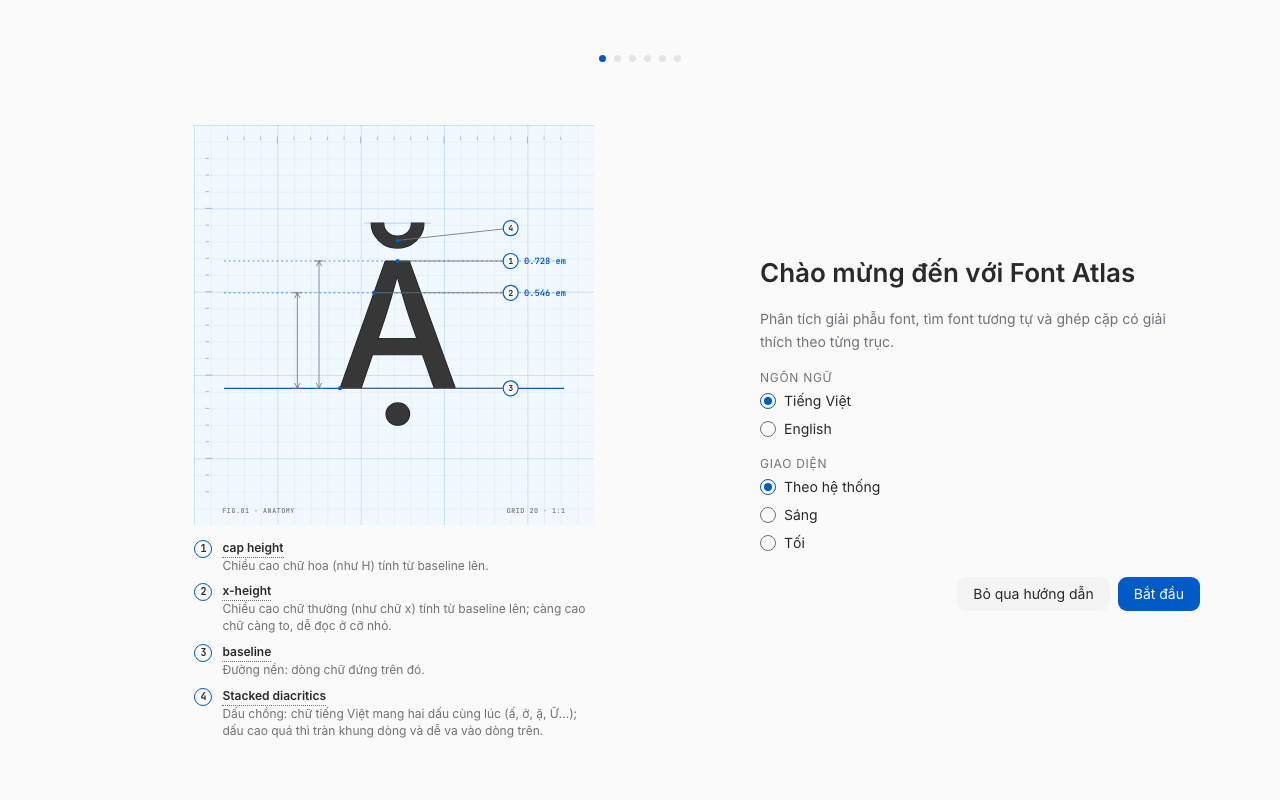
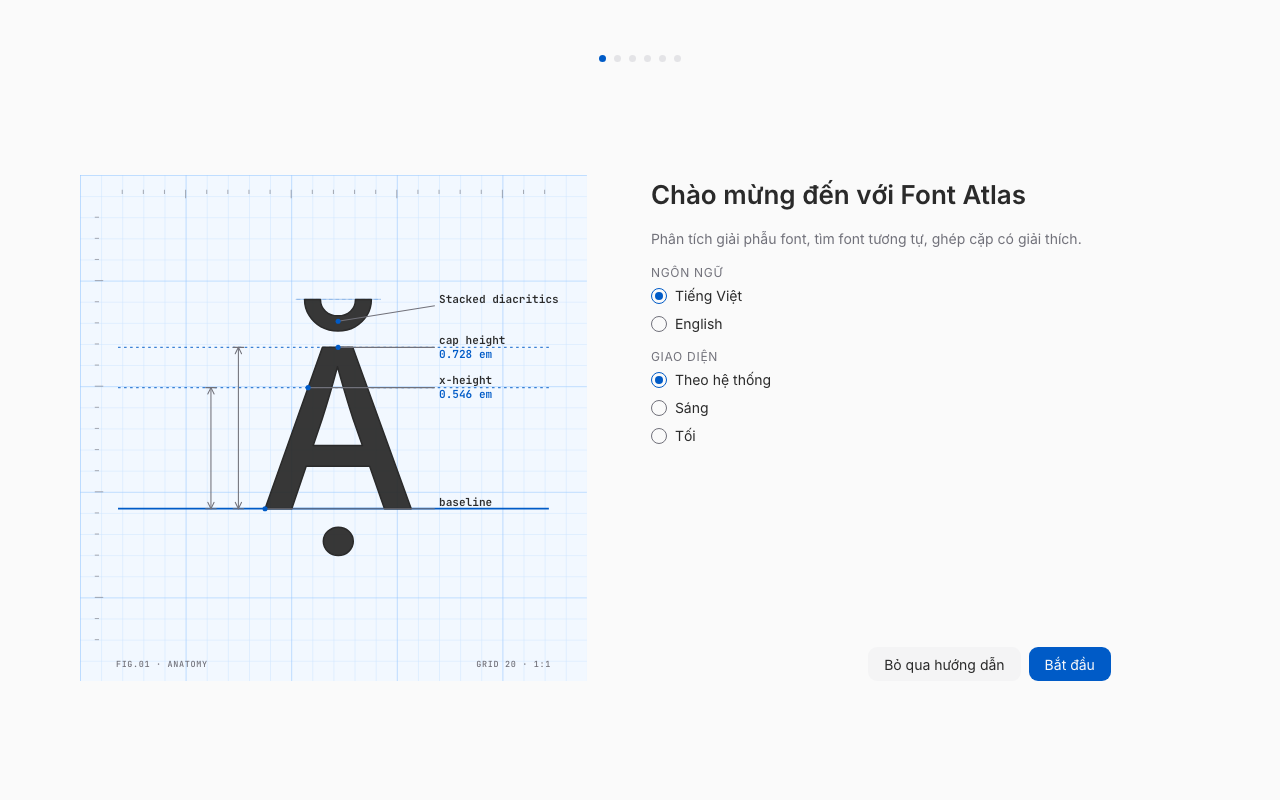
feat(onboarding): bỏ khối chú giải dài (nhãn ngắn + TermTip trên hình), cân lại bố cục lưới 48/52, hình vuông canh giữa, nút cùng đường chân; ảnh chụp lại

diff --git a/UX/components/onboarding/Illustrations.tsx b/UX/components/onboarding/Illustrations.tsx
@@ -2,19 +2,12 @@
 // Bước quét (o4) có hình riêng trong ScanBlocks; ở đây o4 chỉ chừa khung (slot) để ScanBlocks gắn vào qua portal.
 import type { ReactNode } from 'react';
 import { t, type I18nKey } from '../../i18n';
-import { TERM_NAMES, TermTip, termGloss, termKey } from '../ui/terms';
 import type { Step } from '../../store/onboarding';
 import { CAP_HEIGHT, GLYPHS, UPM, X_HEIGHT } from './glyphOutlines';
 import { Callout, Dimension, GlyphArt, Guide, Readout, Sheet, VB_SQ, VB_W, circlePath, delay, glyphWidth } from './blueprint';
 
 export const ILLUSTRATED_STEPS = ['o1', 'o2', 'o3', 'o5', 'o6', 'o7', 'end'] as const;
 type S = typeof ILLUSTRATED_STEPS[number];
-
-/** Thuật ngữ mà số callout của từng bước trỏ tới (theo thứ tự số 1, 2, 3…). Giải thích nằm ở TermTip và ở legend. */
-export const LEGEND: Partial<Record<S, readonly string[]>> = {
-  o1: ['cap_height', 'x_height', 'baseline', 'vi_marks'],
-  o7: ['activate'],
-};
 
 const em = (units: number, size: number) => (units * size) / UPM;
 
@@ -32,12 +25,12 @@ function Welcome(): React.JSX.Element {
       <Dimension x={150} y1={cap} y2={base} at={1000} />
       <Dimension x={124} y1={xh} y2={base} at={1100} />
       <GlyphArt ch="Ặ" x={x} y={base} size={size} at={700} fillAt={1700} />
-      <Callout n={1} px={apex} py={cap} cx={380} cy={cap} at={1400} />
-      <Callout n={2} px={x + em(449, size)} py={xh} cx={380} cy={xh} at={1520} />
-      <Callout n={3} px={x + em(51, size)} py={base} cx={380} cy={base} at={1640} />
-      <Callout n={4} px={apex} py={(top + cap) / 2 - 2} cx={380} cy={top + 6} at={1760} />
-      <Readout x={396} y={cap + 3.5} to={CAP_HEIGHT / UPM} at={1000} />
-      <Readout x={396} y={xh + 3.5} to={X_HEIGHT / UPM} at={1100} />
+      <Callout term="cap_height" px={apex} py={cap} cx={336} cy={cap} at={1400} />
+      <Callout term="x_height" px={x + em(449, size)} py={xh} cx={336} cy={xh} at={1520} />
+      <Callout term="baseline" px={x + em(51, size)} py={base} cx={336} cy={base} at={1640} />
+      <Callout term="vi_marks" px={apex} py={(top + cap) / 2 - 2} cx={336} cy={top + 6} at={1760} />
+      <Readout x={340} y={cap + 10} to={CAP_HEIGHT / UPM} at={1000} />
+      <Readout x={340} y={xh + 10} to={X_HEIGHT / UPM} at={1100} />
       </Sheet>
     </>
   );
@@ -133,7 +126,7 @@ function Activate(): React.JSX.Element {
       <Sheet fig="FIG.07 · PROTOTYPE" h={VB_SQ}>
       <rect x="48" y="130" width="112" height="112" rx="6" className="bp-frame-box" style={delay(150)} />
       <GlyphArt ch="ă" x={104 - w / 2} y={206} size={size} at={400} fillAt={1100} className="src" />
-      <Callout n={1} px={150} py={77} cx={196} cy={46} at={1200} />
+      <Callout term="activate" px={150} py={77} cx={176} cy={46} at={1200} />
       <g className="bp-switch" style={delay(1000)}><rect x="86" y="62" width="64" height="30" rx="15" className="bp-pill" /><circle cx="101" cy="77" r="11" className="bp-knob" /></g>
       <path d="M168 186H236" className="bp-flow dash" pathLength={1} style={delay(1400)} />
       <g className="bp-window" style={delay(1500)}>
@@ -166,34 +159,15 @@ function Done(): React.JSX.Element {
 
 const ART: Record<S, () => React.JSX.Element> = { o1: Welcome, o2: Legacy, o3: Tray, o5: Seal, o6: Embedding, o7: Activate, end: Done };
 
-function Legend({ terms }: { terms: readonly string[] }): React.JSX.Element {
-  return (
-    <ol className="fa-legend" aria-label={t('onb.legend')}>
-      {terms.map((term, i) => {
-        const key = termKey(term);
-        return (
-          <li key={key}>
-            <b aria-hidden>{i + 1}</b>
-            <TermTip term={key}><span className="name" tabIndex={0}>{TERM_NAMES[key] ?? key}</span></TermTip>
-            <span className="gloss">{termGloss(key)}</span>
-          </li>
-        );
-      })}
-    </ol>
-  );
-}
-
 /** Khung hình (stage) của một bước. `slotRef` chỉ dùng ở o4: nơi ScanBlocks gắn hình quét vào. */
 export function Illustration({ step, slotRef }: { step: Step | S; slotRef?: (el: HTMLDivElement | null) => void }): React.JSX.Element | null {
   if (step === 'o4') return <figure className="fa-stage" data-step="o4"><div className="fa-stage-slot" ref={slotRef} /></figure>;
   const Art = (ART as Record<string, (() => React.JSX.Element) | undefined>)[step];
   if (!Art) return null;
-  const terms = LEGEND[step as S];
   const node: ReactNode = <Art />;
   return (
     <figure className="fa-stage" data-step={step}>
       <svg className="fa-bp" role="img" aria-label={t(`onb.art.${step}` as I18nKey)} viewBox={`0 0 ${VB_W} ${VB_SQ}`} preserveAspectRatio="xMidYMid meet">{node}</svg>
-      {terms && <Legend terms={terms} />}
     </figure>
   );
 }

diff --git a/UX/components/onboarding/onboarding.css b/UX/components/onboarding/onboarding.css
@@ -1,5 +1,5 @@
 .fa-onb { position: relative; height: 100%; display: flex; flex-direction: column; background: var(--sheet); color: var(--fg); overflow-y: auto; }
-.fa-onb-top { display: grid; grid-template-columns: 1fr auto 1fr; grid-auto-rows: 28px; align-items: center; padding: 44px 24px 0; }
+.fa-onb-top { display: grid; grid-template-columns: 1fr auto 1fr; grid-auto-rows: 28px; align-items: center; width: min(1120px, calc(100% - 48px)); margin: 0 auto; padding: 44px 0 0; }
 .fa-onb-back { justify-self: start; color: var(--muted); font-size: 13px; }
 .fa-onb-back:hover { color: var(--fg); }
 .fa-onb-dots { display: flex; gap: 8px; align-items: center; height: 14px; }
@@ -7,12 +7,12 @@
 .fa-onb-dots i[data-on="true"] { background: var(--muted); }
 .fa-onb-dots i[data-now="true"] { background: var(--accent-ink); }
 @media (prefers-reduced-motion: reduce) { .fa-onb-dots i { transition: none; } }
-.fa-onb-body { flex: 1; width: min(1120px, calc(100% - 48px)); margin: 0 auto; padding: clamp(16px, 4vh, 44px) 0 40px; display: grid; grid-template-columns: minmax(0, 1fr) minmax(340px, 440px); gap: clamp(24px, 4vw, 56px); align-items: center; }
-.fa-stage { margin: 0; display: flex; flex-direction: column; gap: 14px; min-width: 0; width: min(100%, 400px); justify-self: center; }
+.fa-onb-body { flex: 1; width: min(1120px, calc(100% - 48px)); margin: 0 auto; padding: clamp(12px, 3vh, 32px) 0 clamp(24px, 5vh, 56px); display: grid; grid-template-columns: minmax(0, 48fr) minmax(0, 52fr); column-gap: clamp(32px, 5vw, 72px); align-content: center; align-items: stretch; }
+.fa-stage { margin: 0; min-width: 0; width: min(100%, 520px, calc(100vh - 230px)); align-self: center; justify-self: start; }
 .fa-stage-slot { min-width: 0; }
-.fa-onb-pane { display: flex; flex-direction: column; gap: 16px; min-width: 0; }
-@media (max-width: 880px) { .fa-onb-body { grid-template-columns: minmax(0, 1fr); align-items: start; } .fa-stage { width: min(100%, 360px); } }
-@media (max-height: 640px) { .fa-stage .fa-legend { display: none; } }
+.fa-onb-pane { display: flex; flex-direction: column; gap: 14px; min-width: 0; max-width: 460px; justify-self: start; width: 100%; justify-content: center; }
+.fa-onb-pane > .fa-onb-actions { margin-top: auto; }
+@media (max-width: 880px) { .fa-onb-body { grid-template-columns: minmax(0, 1fr); row-gap: 24px; align-content: start; } .fa-stage { width: min(100%, 360px, calc(100vh - 360px)); min-width: 220px; } .fa-onb-pane { max-width: none; } }
 .fa-onb-body h1 { margin: 0; font-size: 26px; font-weight: 600; }
 .fa-onb-body p { margin: 0; font-size: 14px; line-height: 1.6; color: var(--muted); }
 .fa-onb-body p[role="alert"] { color: var(--warn); }

diff --git a/UX/components/onboarding/__tests__/Illustrations.test.tsx b/UX/components/onboarding/__tests__/Illustrations.test.tsx
@@ -1,6 +1,6 @@
 import { render, screen } from '@testing-library/react';
 import { describe, expect, it } from 'vitest';
-import { ILLUSTRATED_STEPS, LEGEND, Illustration } from '../Illustrations';
+import { ILLUSTRATED_STEPS, Illustration } from '../Illustrations';
 import { CAP_HEIGHT, GLYPHS, UPM, X_HEIGHT } from '../glyphOutlines';
 
 const EMOJI = /[\u{1F300}-\u{1FAFF}\u{2600}-\u{27BF}\u{FE0F}]/u;
@@ -52,20 +52,21 @@ describe('onboarding illustrations (blueprint lab)', () => {
     expect(container.querySelector('[data-glyph="Ặ"]')).toBeTruthy();
   });
 
-  it('every numbered callout has a legend entry with a TermTip name, in order', () => {
+  it('o1 has short labels beside the guides (term names with a TermTip), and NO long legend block', () => {
     const { container } = render(<Illustration step="o1" />);
-    const nums = [...container.querySelectorAll('[data-callout]')].map(e => Number(e.getAttribute('data-callout')));
-    expect(nums).toEqual([1, 2, 3, 4]);
-    const names = [...container.querySelectorAll('.fa-legend .name')].map(e => e.textContent);
-    expect(names.every(Boolean)).toBe(true);
-    expect(names).toHaveLength(LEGEND.o1!.length);
-    for (const n of container.querySelectorAll('.fa-legend .name')) expect(n.getAttribute('tabindex')).toBe('0');
+    const terms = [...container.querySelectorAll('[data-callout]')].map(e => e.getAttribute('data-callout'));
+    expect(terms).toEqual(['cap_height', 'x_height', 'baseline', 'vi_marks']);
+    const labels = [...container.querySelectorAll('.bp-label')].map(e => e.textContent);
+    expect(labels.every(l => !!l && l.length <= 24)).toBe(true);
+    expect(container.querySelector('.fa-legend')).toBeNull();
+    expect(container.querySelector('.gloss')).toBeNull();
+    for (const l of container.querySelectorAll('.bp-label')) expect(l.getAttribute('tabindex')).toBe('0');
   });
 
-  it('activation has its callout 1 on the switch', () => {
+  it('no step shows a legend; activation has its label on the switch', () => {
+    for (const s of ILLUSTRATED_STEPS) expect(render(<Illustration step={s} />).container.querySelector('.fa-legend')).toBeNull();
     const { container } = render(<Illustration step="o7" />);
-    expect([...container.querySelectorAll('[data-callout]')].map(e => e.getAttribute('data-callout'))).toEqual(['1']);
-    expect(container.querySelectorAll('.fa-legend li')).toHaveLength(LEGEND.o7!.length);
+    expect([...container.querySelectorAll('[data-callout]')].map(e => e.getAttribute('data-callout'))).toEqual(['activate']);
   });
 
   it('each step has a different picture', () => {

diff --git a/UX/components/onboarding/blueprint.css b/UX/components/onboarding/blueprint.css
@@ -39,8 +39,8 @@ g.old .bp-outline { stroke: var(--bp-dim); stroke-dasharray: none; stroke-width:
 .bp-callout { animation: bp-pop .5s var(--bp-ease) var(--d, 0ms) both; transform-box: fill-box; transform-origin: center; }
 .bp-lead { stroke: var(--bp-dim); stroke-width: 1; }
 .bp-dot { fill: var(--bp-acc); }
-.bp-bubble { fill: var(--sheet); stroke: var(--bp-acc); stroke-width: 1.4; }
-.bp-num { font: 700 10px/1 "JetBrains Mono", ui-monospace, monospace; fill: var(--bp-ink); }
+.bp-label { font: 600 10.5px/1 "JetBrains Mono", ui-monospace, monospace; fill: var(--fg); cursor: help; outline: none; }
+.bp-label:hover, .bp-label:focus-visible { fill: var(--accent-ink); text-decoration: underline dotted; }
 
 .bp-frame rect { fill: none; stroke: var(--bp-ink); stroke-width: 1.4; }
 .bp-frame.old rect { stroke: var(--bp-dim); stroke-dasharray: 5 4; }
@@ -93,15 +93,6 @@ g.fly { animation: bp-land .8s var(--bp-ease) var(--d, 0ms) both; }
 @keyframes bp-knob { to { transform: translateX(34px); } }
 @keyframes bp-land { from { transform: translateX(-190px); opacity: 0; } 30% { opacity: 1; } }
 
-/* Legend (HTML) đi kèm callout đánh số */
-.fa-legend { margin: 0; padding: 0; list-style: none; display: grid; grid-template-columns: repeat(auto-fit, minmax(210px, 1fr)); gap: 8px 16px; }
-.fa-legend li { display: grid; grid-template-columns: 20px auto; grid-template-areas: "n name" ". gloss"; column-gap: 8px; align-items: baseline; font-size: 12px; }
-.fa-legend b { grid-area: n; width: 18px; height: 18px; border-radius: 50%; border: 1.4px solid var(--bp-acc); display: grid; place-items: center; font: 700 10px/1 "JetBrains Mono", ui-monospace, monospace; color: var(--fg); }
-.fa-legend .name { grid-area: name; font-weight: 600; color: var(--fg); cursor: help; border-bottom: 1px dotted var(--muted); justify-self: start; }
-.fa-legend .name:focus-visible { outline: 2px solid var(--accent); outline-offset: 2px; border-radius: 2px; }
-.fa-legend .gloss { grid-area: gloss; color: var(--muted); line-height: 1.4; display: -webkit-box; -webkit-line-clamp: 2; -webkit-box-orient: vertical; overflow: hidden; }
-
-/* Outro (mở đầu là Splash) */
 .fa-intro { position: absolute; inset: 0; z-index: 5; display: flex; flex-direction: column; align-items: center; justify-content: center; gap: 18px; padding: 24px; background: var(--sheet); }
 .fa-intro .fa-bp { width: min(760px, 92%); }
 .fa-outro .bp-outline, .fa-outro .bp-solid, .fa-outro .bp-guide { animation: none; }

diff --git a/UX/components/onboarding/blueprint.tsx b/UX/components/onboarding/blueprint.tsx
@@ -3,6 +3,7 @@
 import { useEffect, useRef, useState } from 'react';
 import type { CSSProperties, ReactNode } from 'react';
 import { GLYPHS, UPM } from './glyphOutlines';
+import { TERM_NAMES, TermTip, termKey } from '../ui/terms';
 import './blueprint.css';
 
 export const VB_W = 480;
@@ -71,14 +72,14 @@ export function Guide({ y, x1 = 36, x2 = 444, name, at = 0, tone = 'dash' }: { y
   return <path data-guide={name} data-y={y} d={`M${x1} ${y}H${x2}`} pathLength={1} className={`bp-guide ${tone}`} style={delay(at)} />;
 }
 
-/** Số trong vòng tròn nối bằng đường dẫn tới điểm cần chú thích; legend HTML bên dưới giải thích số đó. */
-export function Callout({ n, px, py, cx, cy, at = 0 }: { n: number; px: number; py: number; cx: number; cy: number; at?: number }): React.JSX.Element {
+/** Nhãn ngắn ngay cạnh vạch: chấm ở điểm cần chỉ, đường dẫn tới nhãn tên thuật ngữ. Rê chuột vào nhãn → TermTip (không có khối giải thích dài trên hình). */
+export function Callout({ term, px, py, cx, cy, at = 0 }: { term: string; px: number; py: number; cx: number; cy: number; at?: number }): React.JSX.Element {
+  const key = termKey(term);
   return (
-    <g className="bp-callout" data-callout={n} style={delay(at)}>
-      <line x1={px} y1={py} x2={cx} y2={cy} className="bp-lead" />
+    <g className="bp-callout" data-callout={key} style={delay(at)}>
+      <path d={`M${px} ${py}L${cx} ${cy}`} className="bp-lead" />
       <circle cx={px} cy={py} r="2.4" className="bp-dot" />
-      <circle cx={cx} cy={cy} r="9" className="bp-bubble" />
-      <text x={cx} y={cy + 3.6} textAnchor="middle" className="bp-num">{n}</text>
+      <TermTip term={key}><text x={cx + 4} y={cy - 3} className="bp-label" tabIndex={0}>{TERM_NAMES[key] ?? key}</text></TermTip>
     </g>
   );
 }

diff --git a/UX/src-tauri/tests/qa/main_flows.js b/UX/src-tauri/tests/qa/main_flows.js
@@ -108,7 +108,7 @@
         await sleep(300); await snap('onb-tips');
         const cards = dlg ? dlg.querySelectorAll('[data-testid=tip-card]').length : 0;
         const dots = document.querySelectorAll('.fa-onb-dots i').length;
-        await log('onb-tips-overlay', !!dlg && cards >= 8 && vb === '0 0 480 480' && bw === '0px' && dots >= 6 && !document.querySelector('.fa-onb-keys, .fa-onb-stepno'), { cards, vb, bw, dots });
+        await log('onb-tips-overlay', !!dlg && cards >= 8 && vb === '0 0 480 480' && bw === '0px' && dots >= 6 && !document.querySelector('.fa-onb-keys, .fa-onb-stepno, .fa-legend'), { cards, vb, bw, dots, legend: !!document.querySelector('.fa-legend') });
         continue;
       }
       const order = /Kích hoạt/.test(h1) ? ['Để sau', 'Tiếp tục'] : ['Đã hiểu', 'Không dùng', 'Bỏ qua', 'Tiếp tục', 'Bắt đầu', 'Vào thư viện'];

diff --git a/UX/components/onboarding/Onboarding.tsx b/UX/components/onboarding/Onboarding.tsx
@@ -123,7 +123,7 @@ function O1({ api, next, finish }: Ctx) {
   return (
     <>
       <h1>Chào mừng đến với Font Atlas</h1>
-      <p>Phân tích giải phẫu font, tìm font tương tự và ghép cặp có giải thích theo từng trục.</p>
+      <p>Phân tích giải phẫu font, tìm font tương tự, ghép cặp có giải thích.</p>
       <fieldset className="fa-onb-field"><legend>Ngôn ngữ</legend>
         {([['vi', 'Tiếng Việt'], ['en', 'English']] as const).map(([v, label]) => (
           <label key={v}><input type="radio" name="lang" checked={lang === v} onChange={() => { chooseLocale(v); void api.setSettings({ uiLang: v }); }} />{label}</label>))}

diff --git a/docs/design/onboarding-lab/README.md b/docs/design/onboarding-lab/README.md
@@ -16,3 +16,4 @@ Ngôn ngữ hình: bản vẽ kỹ thuật (blueprint) — lưới đo 20 px, đ
 - Onboarding: chỉ báo bước là chấm tròn đơn giản; bỏ chữ "Bước x/y" và dòng gợi ý phím (phím ← → Enter Esc vẫn chạy; mô tả cho trình đọc màn hình giữ nguyên, ẩn). Ô minh hoạ vuông (viewBox 480×480, tối đa 400 px), KHÔNG viền khung và bỏ góc khung; lưới, thước, vạch đo, callout giữ nguyên.
 - Trước màn kết: bảng "Phím tắt & tính năng chính" (`UX/components/help`) — lưới 9 thẻ lấy từ danh sách phím thật (`shortcuts.ts`, mỗi mục ghi nơi đăng ký phím); Esc / bấm nền / "Bắt đầu" đều vào thư viện. Mở lại bất kỳ lúc nào bằng phím `?` (trừ khi đang gõ chữ, có hộp thoại/menu hoặc đang trong hướng dẫn).
 - Chụp: `capture.sh` có thêm `-tips` (hash dev `ob=end&tips=1`).
+- Cập nhật sau góp ý chủ app: BỎ khối chú giải dài dưới hình ở mọi bước. Trên hình chỉ còn nhãn ngắn cạnh vạch (tên thuật ngữ + số đo, vd "cap height 0.728 em"); rê chuột/focus vào nhãn mới hiện TermTip. Bố cục cân lại: lưới 48/52, hình vuông ≤ 520 px (≈45% bề ngang) canh giữa theo chiều dọc, lề trái hình = lề trái nút "Quay lại" (cùng cột 1120 px), khối chữ cùng lề cột phải, nút nằm đúng đường chân của hình; cửa sổ hẹp (≤ 880 px) xếp dọc. Ảnh kiểm: 1280×800, 1440×900 (`*-wide-o1`), 720×900 (`*-narrow-o1`).
